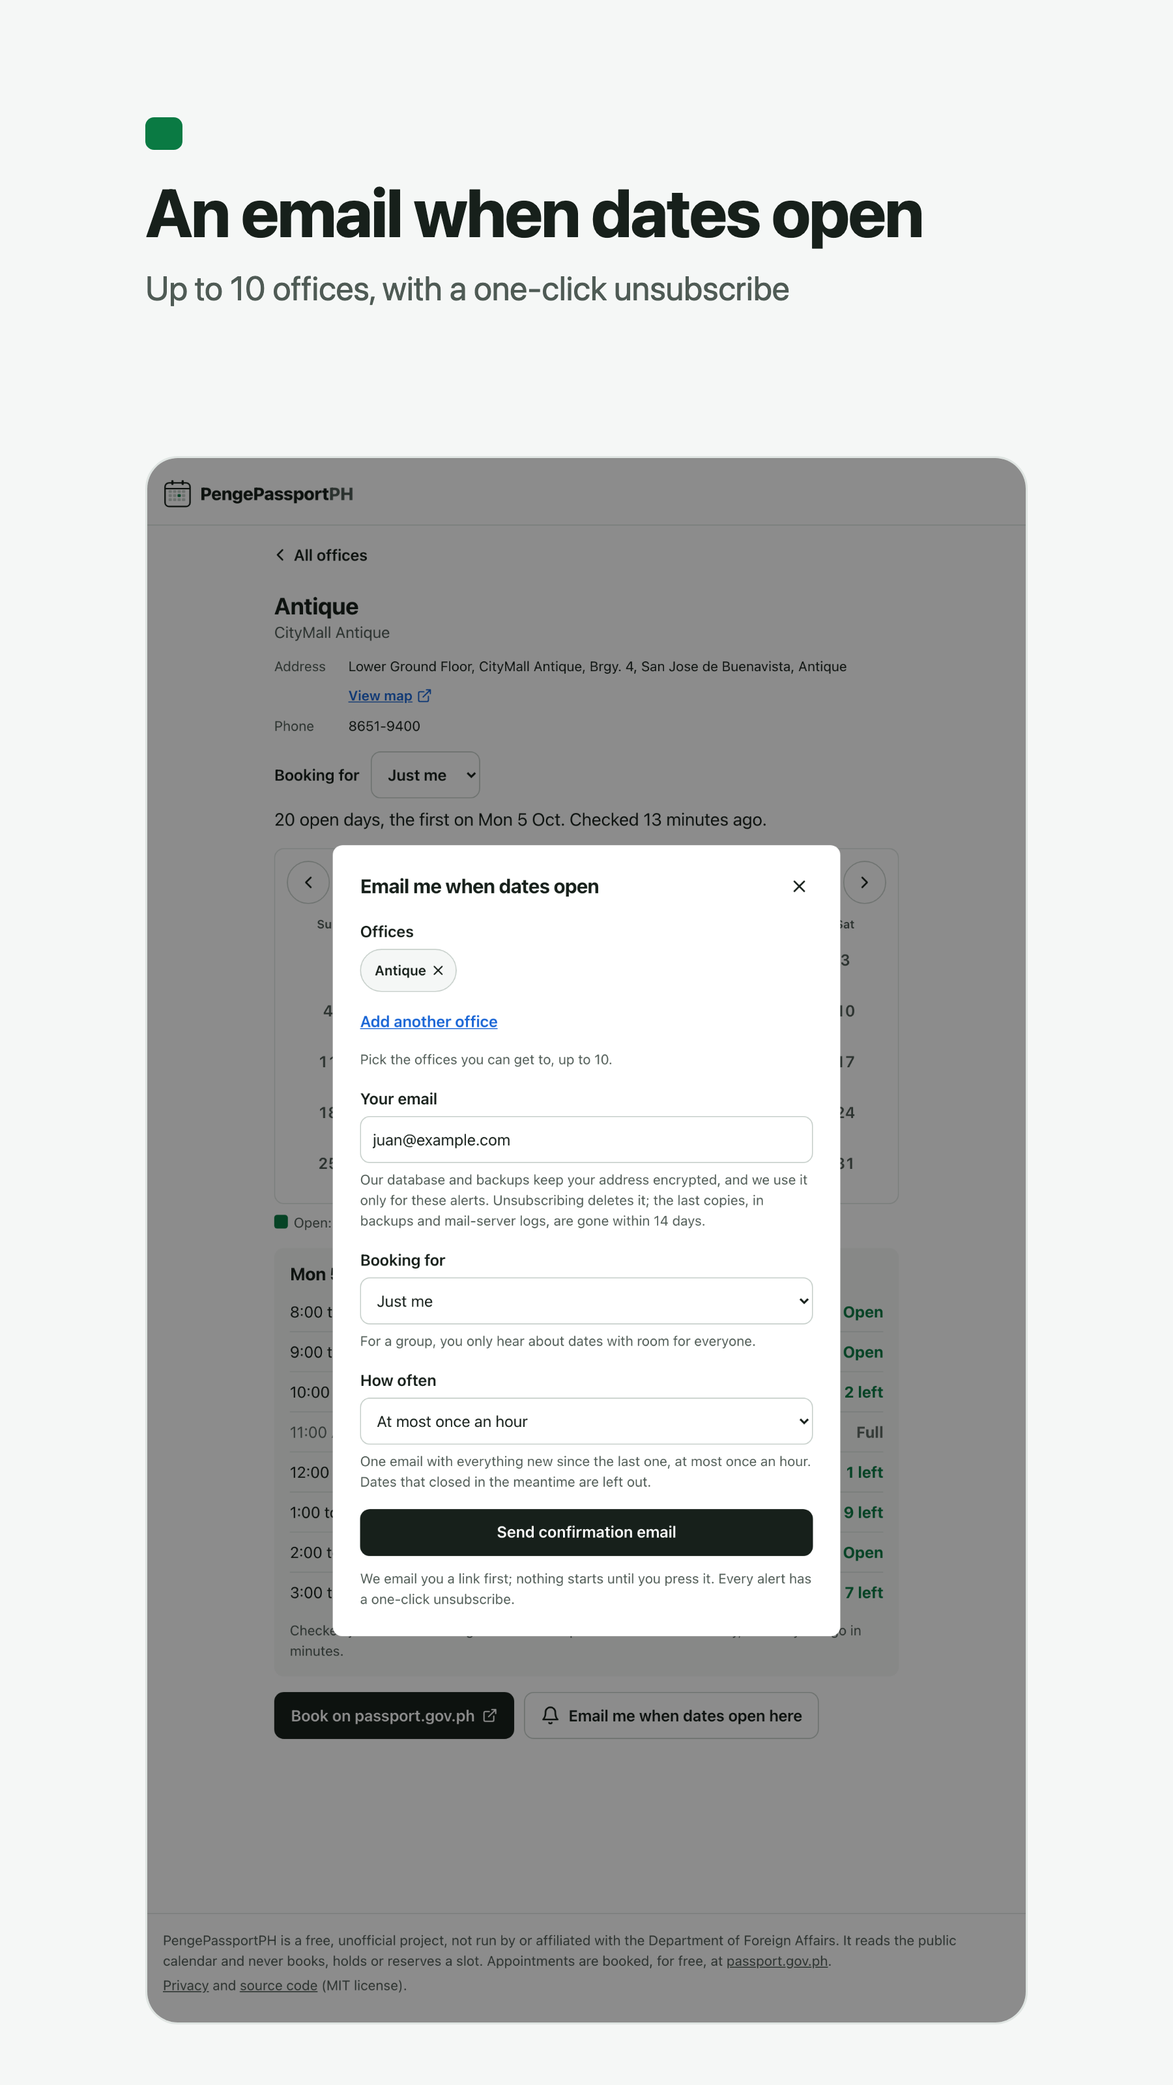
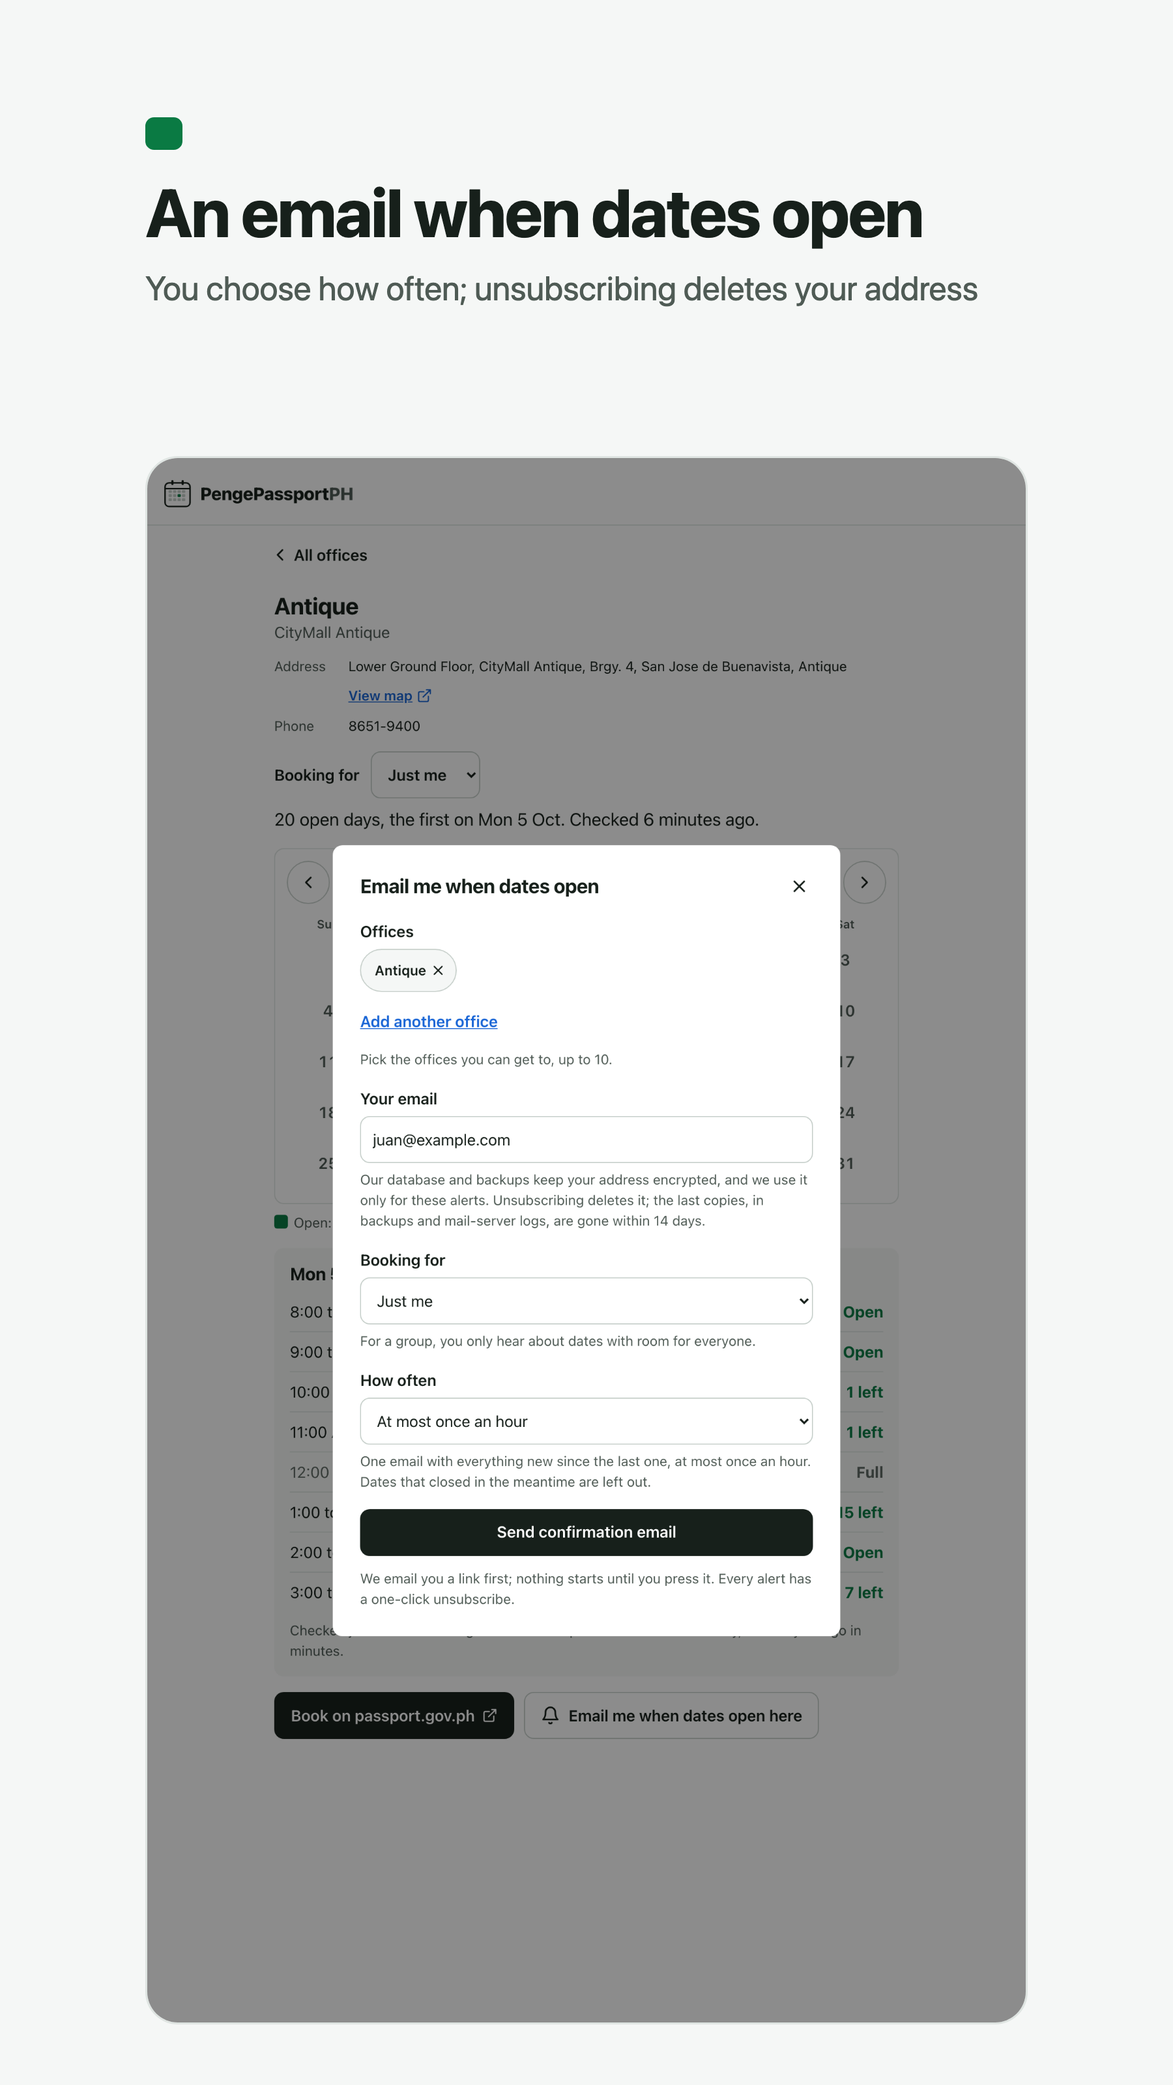
Play listing QA: screenshot framing, declarations, splash scaling, divider
What an adversarial codex review of the store pictures, the listing and the
Android build found (3 reviews, then 3 verification passes), and the fixes.

Android, checked on Android 16 phone and tablet emulators:
- The splash is shrunk to fit a short window (CENTER_INSIDE) rather than cropped.
- The navigation bar's divider matches the bar: Bubblewrap drops the alpha
  from a transparent colour, and it showed as a black line.
- The themed icon is 50x51dp, inside the 66dp safe zone: Android asks for 48.
- android/patch.cjs holds the project edits and fails on a conflicting one.

Pictures:
- The phone calendar, alert and abroad shots no longer cut their subject off.
- The site's footer is hidden, since it says "free".
- Alt text is added, and the snapshot date is noted.

Listing:
- The government-service question is an open one for the owner.
- Analytics is declared in Data safety.
- The Console's exact government, financial and health answers.
- The account-creation answer with its fallback.
- Deletion timing is precise.
- The support email is marked as the owner's to supply.
- The public account details (legal name, developer email) are explained.
- Device verification is added.
- "free" is gone from every field.

docs/alert-timing.md no longer calls the earlier codex reviews read-only: this
codex install turned out to ignore its sandbox flag.

diff --git a/marketing/play-store/README.md b/marketing/play-store/README.md
@@ -16,7 +16,7 @@ release the app is in [`docs/android.md`](../../docs/android.md).
 | Tags (5 at most) | Chosen in the Console from its own fixed list, which Google does not publish; see below |
 | Website | https://alphaexperiments.com/pengepassportph/ |
 | Privacy policy | https://alphaexperiments.com/pengepassportph/privacy |
-| Contact email | Required, and **shown publicly** on the listing: use an address made for this app, not a personal one |
+| Contact email | **Not filled in here: you must supply it before submitting.** Required and shown publicly on the listing, so use an address made for this app and watched, not a personal one |
 | External marketing | Leave on: it is Google advertising the listing outside Play, with no data from the app |
 
 **The name.** The app name is what people see first in search results, and "PengePassportPH" alone
@@ -32,7 +32,7 @@ it with "Unofficial". The plain "PengePassportPH" works too if you'd rather keep
 **Tags.** Google's rule is that a tag's relevance should be obvious to someone who doesn't know the
 app, from its listing or its first screen. Pick only those, even if that's fewer than five.
 
-Full description (1,511 of 4,000 characters). Google requires an app that shows government
+Full description (1,502 of 4,000 characters). Google requires an app that shows government
 information without being run by a government to say so and to name its sources in the description,
 which is why both come first and last:
 
@@ -49,7 +49,7 @@ What it does
 • Booking for a group of 2 to 5? You only hear about dates with room for everyone
 
 What it doesn't do
-• It never selects, holds or books a slot, and never sells one. You book for free at passport.gov.ph yourself.
+• It never selects, holds or books a slot, and never sells one. You book at passport.gov.ph yourself.
 • No account, no ads, no tracking scripts.
 
 Open source (MIT license): https://github.com/alpharomercoma/penge-passport-ph
@@ -91,8 +91,8 @@ build before a deploy.
 Google doesn't allow price or promotional words ("Free", "Best", "New", "#1" and so on) on screenshots
 and graphics, in the app name or in the short description, nor price or promotional offers in the full
 description ([listing guidance](https://support.google.com/googleplay/android-developer/answer/13393723)).
-So no field offers the app as "free". The one "free" left, in the full description, says booking on
-passport.gov.ph costs nothing, which is the DFA's, not an offer from this app.
+So no field says "free" at all, the app's price or anyone else's. The screenshots leave out the site's
+footer for the same reason: it calls the project, and booking, free.
 
 Every screenshot is 9:16, since Play refuses one whose long side is more than twice the short one (and
 any side over 3840 px). Google's rules
@@ -109,12 +109,27 @@ Five per set meets all of these. Each screenshot has a caption above the screen:
 | `01-offices` | Every office, soonest date first. *All 43 DFA offices in the Philippines, checked every 15 minutes* |
 | `02-calendar` | Open days at a glance. *Each office's calendar, from the latest check* |
 | `03-hours` | Tap a day for its hours. *Places left each hour, straight from passport.gov.ph* |
-| `04-alert` | An email when dates open. *Up to 10 offices, with a one-click unsubscribe* |
+| `04-alert` | An email when dates open. *You choose how often; unsubscribing deletes your address* |
 | `05-abroad` | Embassies and consulates too. *133 posts in 67 countries* |
 
 The counts are read from the live API each time the script runs. The alert form is filled in with the
 placeholder `juan@example.com` and never sent. The office shown is the one with the soonest open date
 that day.
+
+**They are a snapshot.** The counts, dates and places left on screen are the live site's at the moment of
+capture (last run 30 September 2026), and change within hours. Rerun the script before each listing
+update so the pictures stay close to what people will see.
+
+**Alt text**, which Google asks for with every graphic and screenshot (140 characters at most):
+
+| Image | Alt text |
+| --- | --- |
+| Feature graphic | PengePassportPH: know when a passport appointment opens. A month of full days with one open day. Unofficial. |
+| `01-offices` | The list of DFA offices in the Philippines, each with its soonest open date and how many days are open. |
+| `02-calendar` | An office's calendar for the month, with its open days in green, and buttons to book or get an email. |
+| `03-hours` | One day's hours at an office, showing which are open, which are full and how many places are left. |
+| `04-alert` | The form to get an email when dates open: an email address, who you are booking for, and how often. |
+| `05-abroad` | Philippine embassies and consulates abroad, by country, each with its soonest open date. |
 
 **The tablet shots came with a fix.** At a 10-inch tablet's 900dp, an office's page was a 640px
 column pinned to the left with empty space beside it. The office page is now centred, like the privacy
@@ -128,9 +143,10 @@ and confirmation pages, and the screenshots show that.
 | Ads | No ads |
 | App access | All functionality is available without special access: there is no sign-in |
 | Target audience | 18 and over. The people booking are adults, and parents book for children; choosing ages under 13 brings in the Families policy |
-| Government apps | The app is not affiliated with a government entity. It communicates government information (the DFA's appointment calendar), and names its sources in the description |
+| Government apps | "Is the app developed by or on behalf of a government?" **No.** It is not affiliated with any government. It does communicate government information (the DFA's appointment calendar), which is why the description says it is unofficial and names its sources |
 | News app | No |
-| Financial features, health | None |
+| Financial features | "The app does not provide any financial features" |
+| Health apps | None of the health features listed apply: choose the answer that says so |
 | Advertising ID | No. The app declares one permission, which AndroidX adds for its own receivers (`DYNAMIC_RECEIVER_NOT_EXPORTED_PERMISSION`), and no `AD_ID` (`aapt2 dump badging` on the APK) |
 
 **Content rating questionnaire.** For the answers: there is no violence, sexual content, crude
@@ -155,26 +171,29 @@ runbook's inventory ([`deploy/README.md`](../../deploy/README.md#where-a-subscri
 | --- | --- |
 | Does the app collect or share any of the required user data types? | Yes |
 | Is all of the user data collected by the app encrypted in transit? | Yes: from the phone, HTTPS only (plain HTTP is redirected, HSTS for a year). The alert emails the server sends out use TLS when the recipient's mail server offers it (`smtp_tls_security_level = may`), as the privacy page says; that is delivery to the user, not collection from the phone |
-| Can users request that their data be deleted? | Yes: the unsubscribe link in every alert email deletes it at once. A sign-up that is never confirmed is deleted after 48 hours |
+| Can users request that their data be deleted? | Yes: the unsubscribe link in every alert email removes the address and its choices from the database at once. The last copies, in the encrypted backups and the mail server's logs, are gone within 14 days. A sign-up that is never confirmed is deleted after 48 hours |
+| Does the app let users create an account? | **No**, on Google's definition of an account ("a unique user identity that developers provide as a user-facing feature"): there is no sign-in, username, password or profile. Signing up for alerts stores an email address to send alerts to. If Play reads that as an account, it will also want an in-app way to delete it (the unsubscribe page) and a web page where someone can ask for deletion without the email, which the site doesn't have yet ([requirement](https://support.google.com/googleplay/android-developer/answer/13327111)) |
 
 | Data type | Collected | Shared | Ephemeral | Required | Purpose |
 | --- | --- | --- | --- | --- | --- |
 | Personal info: Email address | Yes | No | No | Optional (only for alerts) | App functionality; Fraud prevention, security, and compliance (confirmation emails per address are counted under a keyed hash for about two days, so the form can't flood an inbox) |
 | App activity: Other actions (the offices, group size and pace chosen for alerts) | Yes | No | No | Optional | App functionality |
-| Device or other IDs (the network address every request comes from) | Yes | No | No | Required | Fraud prevention, security, and compliance |
+| Device or other IDs (the network address every request comes from) | Yes | No | No | Required | Fraud prevention, security, and compliance; Analytics |
+| App activity: App interactions (pages visited, offices opened, days' hours looked up) | Yes | No | No | Required | Analytics |
 
 The network address is declared because the server uses it:
 - the rate limits count requests under a keyed hash of it, not the address, for about two hours;
-- the web server's error log may record the address itself when a request fails, and keeps it 14 days.
+- the web server's error log may record the address itself when a request fails, and keeps it 14 days;
+- the daily visitor count hashes it with the browser's user agent and a salt that is deleted within 25
+  hours, and keeps only an estimate of how many different hashes it saw.
 
-Play's guide asks for data to be declared by what it is used for, and pseudonymous data can still count.
+Play's guide asks for data to be declared by what it is used for, and says pseudonymous data can still
+count. So the visitor count and the counts of what people open are declared as Analytics, although
+they keep no one's details: the cautious reading, since the count starts from each visitor's address.
 
 Not declared, and why:
 - **Service providers aren't sharing.** Huawei Cloud runs the server, and Cloudflare R2 holds the
   encrypted backups. Play's guide exempts service providers acting on the developer's behalf.
-- **Anonymized counts.** The daily visitor count keeps an estimate from salted hashes, and the salt is
-  deleted within 25 hours. Views are counted per office, never per person. Play exempts fully
-  anonymized data.
 - **The saved office list stays on the phone** (browser storage), so it isn't collected.
 - **Location.** No location is inferred from the network address.
 - **Failed lookups.** When passport.gov.ph fails to answer, the log (kept 14 days) notes the office, day
@@ -186,11 +205,13 @@ Google Play's policy on government information bars apps that "falsely claim aff
 government entity or offer, or facilitate government services without proper authorization"
 ([requirements](https://support.google.com/googleplay/android-developer/answer/9514050)).
 
-If a reviewer reads this app as facilitating the DFA's service, the answer is what it does and doesn't
-do:
-- It only reads the public calendar anyone can open.
-- It never selects, holds or books a slot.
-- It sends people to passport.gov.ph to book.
-- It says it is unofficial on every page, in the listing and in the app's description.
+**This is an open question, not a settled one.** The facts in the app's favour:
+- it only reads the public calendar anyone can open;
+- it never selects, holds or books a slot;
+- it sends people to passport.gov.ph to book;
+- it says it is unofficial on every page, in the listing and in the app's description.
 
-[`docs/legal/README.md`](../../docs/legal/README.md) has the longer case.
+Against them, the DFA's own FAQ calls "passport appointment assistance services" illegal. The project's
+legal notes ([`docs/legal/README.md`](../../docs/legal/README.md), "Open question") say a lawyer should
+decide whether a free service that only tells people when dates open counts as "assistance". A reviewer
+could read it that way too. Whether to submit before that is answered is the owner's decision.

diff --git a/docs/android.md b/docs/android.md
@@ -3,14 +3,15 @@
 The Google Play app is the website itself, shown full screen by the phone's browser. It is a
 [Trusted Web Activity](https://developer.chrome.com/docs/android/trusted-web-activity), built with
 [Bubblewrap](https://github.com/GoogleChromeLabs/bubblewrap). The app is a thin launcher, so a change to
-the website reaches the app when the site deploys. Only a new name, icon, colour or Android target needs
-a new upload.
+the website reaches the app when the site deploys. A change to the Android side needs a rebuild and a new
+upload: `android/twa-manifest.json` (name, start page, scope, colours, icons, target), `android/res/`,
+`android/patch.cjs` or the pinned Bubblewrap version.
 
 | What | Where |
 | --- | --- |
 | The app's settings: package name, name, colours, icons, start page, version | [`android/twa-manifest.json`](../android/twa-manifest.json) |
 | The build | [`android/build.sh`](../android/build.sh), which generates the Android project into `android/project/` (not in git) and writes to `android/out/` (not in git) |
-| What Bubblewrap cannot express: the dark-mode splash and the themed icon | [`android/res/`](../android/res), copied over the generated project on every build |
+| What Bubblewrap cannot express: the dark-mode splash, the themed icon, the splash's scaling | [`android/res/`](../android/res) and [`android/patch.cjs`](../android/patch.cjs), applied to the generated project on every build |
 | The website as an app: manifest, icons, service worker | `apps/web/public/manifest.webmanifest`, `apps/web/public/icons/`, `apps/web/src/sw.js` (built by `apps/web/sw-plugin.ts`) |
 | The proof the app and the site belong together | [`apps/web/public/.well-known/assetlinks.json`](../apps/web/public/.well-known/assetlinks.json), served at `https://alphaexperiments.com/.well-known/assetlinks.json` |
 | The upload key | `.secrets/android/` (not in git) |
@@ -57,12 +58,20 @@ Android's own splash does not appear before ours.
   - So the image is the icon with transparent corners (`android/res/drawable-*/splash.png`, from
     `apps/web/scripts/icons.mjs`). On white the tile disappears and only the mark shows; on the dark
     background it is the app's icon. Checked in both modes and in both orders.
+  - The image is 300dp. The helper centres it at that size by default, which crops it in a window
+    shorter than that (split screen, a small free-form window). `android/patch.cjs` makes it shrink to
+    fit instead (`CENTER_INSIDE`); checked in a 200dp-tall free-form window on a tablet.
+- **The navigation bar's divider** matches the bar: white in light mode, `#101412` in dark mode.
+  Bubblewrap drops the alpha from colours, so a transparent divider (`#00000000`) came out as a black
+  line above the navigation bar.
 - **The launcher icon** is Bubblewrap's adaptive icon from `maskable-512.png`, with a monochrome layer
   added for Android 13+ themed icons (`android/res/drawable/ic_launcher_monochrome.xml`).
   - The monochrome layer is the mark in one colour, with the full days faint and the one open day
     solid, as in the favicon.
-  - Bubblewrap uses a monochrome icon only for notifications, so `build.sh` adds the layer to its
-    `ic_launcher.xml`.
+  - It is 50×51dp in the 108dp layer, inside the 66dp safe zone: Android asks for a logo of at least
+    48×48dp.
+  - Bubblewrap uses a monochrome icon only for notifications, so `android/patch.cjs` adds the layer to
+    its `ic_launcher.xml`.
   - It is compiled into the APK, but hasn't yet been seen in a launcher with themed icons turned on.
 - **The name under the icon** is "PassportPH" (`launcherName`): Bubblewrap allows 12 characters, and
   launchers cut longer names short.
@@ -165,14 +174,26 @@ add its entry to this same file.
 
 ## Google Play
 
-**The developer account.** Its contact email is shown to the public on the listing, so use an address
-made for this app, not a personal one.
+**The developer account and what it makes public**
+([Google](https://support.google.com/googleplay/android-developer/answer/13628312)). A personal account
+has two email addresses:
+- **Contact email:** private; Google uses it to reach you.
+- **Developer email:** public, shown on your developer profile on Google Play.
+
+Your **legal name and country** are also shown publicly on a personal account's profile. Each app's
+listing also needs a **support email**, which is public too. Use addresses made for this app for both
+public ones, never a personal one.
 
 **Testing first, for new personal accounts.** A personal Play Console account created after 13 November
 2023 must run a closed test first. At least 12 testers have to stay opted in for 14 days in a row. Only
 then can you apply for production access from the Dashboard, and that review "typically takes seven days
 or less"
 ([Google](https://support.google.com/googleplay/android-developer/answer/14151465)).
+
+**Device verification, for new personal accounts.** A new personal account must also show it has a real
+Android phone, through the Play Console mobile app, before an app can go live on Google Play: any
+non-rooted physical phone running Android 10 or later
+([Google](https://support.google.com/googleplay/android-developer/answer/14316361)).
 
 **Target API.** From 31 August 2026, new apps and updates must target Android 16, API level 36
 ([Google](https://support.google.com/googleplay/android-developer/answer/11926878)). The build does.

diff --git a/docs/alert-timing.md b/docs/alert-timing.md
@@ -69,7 +69,7 @@ Check it with `timedatectl show -p NTPSynchronized` (should say `yes`) and `chro
 
 ## What the reviews found
 
-Both changes were reviewed by codex (`gpt-6-luna`, `model_reasoning_effort="xhigh"`, read-only) before they
+Both changes were reviewed by codex (`gpt-6-luna`, `model_reasoning_effort="xhigh"`) before they
 were committed, pass after pass until nothing it raised was left unanswered. Every finding accepted was first
 reproduced by a test that failed, then fixed, then the fix was broken on purpose to show the test catches it.
 
